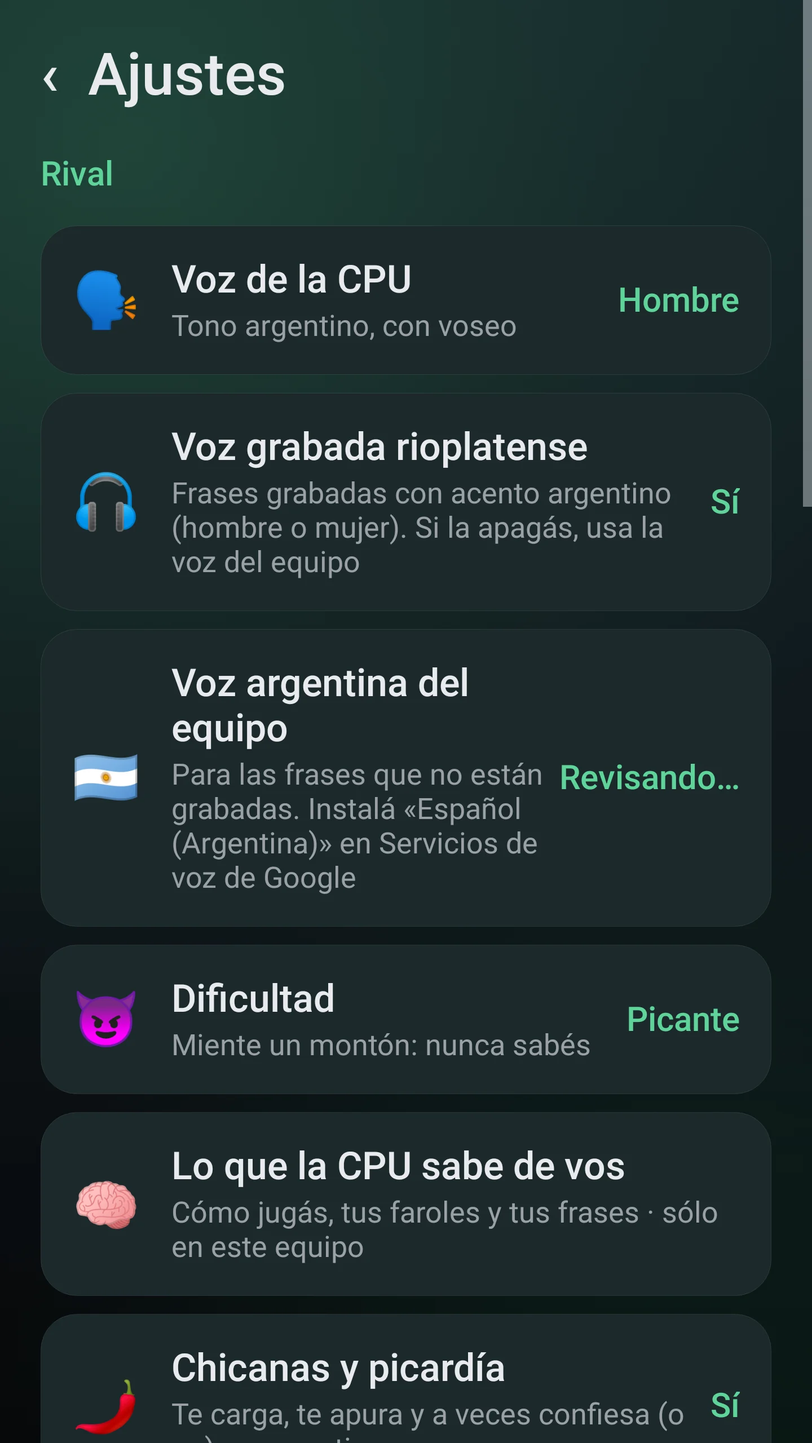
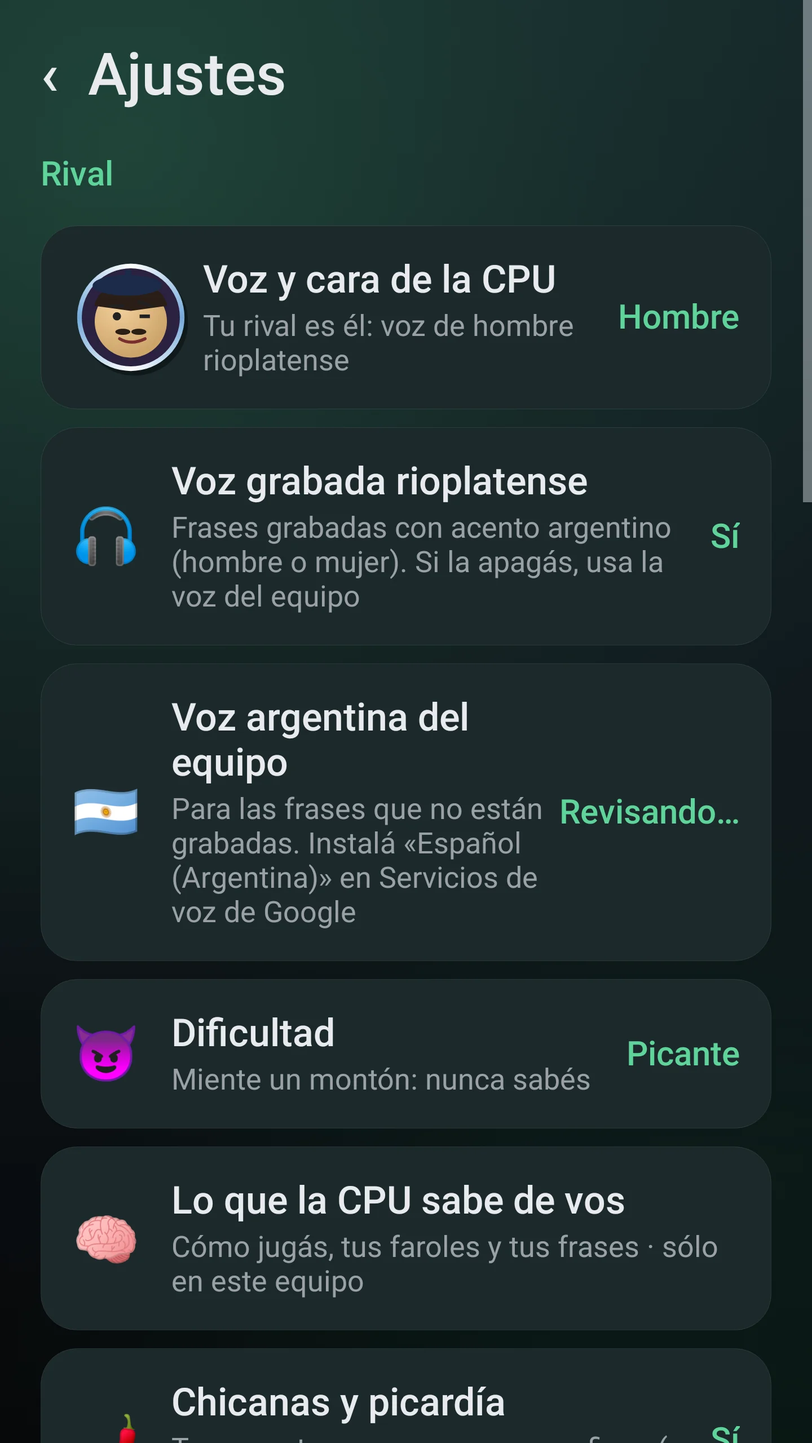
Truco Argento 1.3.1: rival mujer

diff --git a/apps/truco-argento.html b/apps/truco-argento.html
@@ -1,14 +1,14 @@
 <!doctype html><html lang="es-AR" data-tema="oscuro" data-raiz=".."><head><meta charset="utf-8"><meta name="viewport" content="width=device-width,initial-scale=1">
-<title>Truco Argento — SumoSoft</title><script type="application/ld+json">{"@context": "https://schema.org", "@type": "SoftwareApplication", "name": "Truco Argento", "description": "Un rival que te conoce: truco por voz contra una CPU que aprende cómo jugás, miente y te chicanea con eso.", "operatingSystem": "Android 9 o superior", "applicationCategory": "UtilitiesApplication", "softwareVersion": "1.3.0", "url": "https://nachosumo-droid.github.io/apps/apps/truco-argento.html", "image": "https://nachosumo-droid.github.io/apps/img/marca/og-image.png", "inLanguage": "es-AR", "publisher": {"@type": "Organization", "name": "SumoSoft", "url": "https://nachosumo-droid.github.io/apps/"}, "offers": {"@type": "Offer", "price": "3999", "priceCurrency": "ARS", "availability": "https://schema.org/InStock", "url": "https://nachosumo-droid.github.io/apps/apps/truco-argento.html"}}</script><meta name="description" content="Un rival que te conoce: truco por voz contra una CPU que aprende cómo jugás, miente y te chicanea con eso."><meta name="theme-color" content="#070b16"><meta name="color-scheme" content="dark light"><link rel="canonical" href="https://nachosumo-droid.github.io/apps/apps/truco-argento.html"><meta property="og:type" content="website"><meta property="og:site_name" content="SumoSoft"><meta property="og:locale" content="es_AR"><meta property="og:title" content="Truco Argento — SumoSoft"><meta property="og:description" content="Un rival que te conoce: truco por voz contra una CPU que aprende cómo jugás, miente y te chicanea con eso."><meta property="og:url" content="https://nachosumo-droid.github.io/apps/apps/truco-argento.html"><meta property="og:image" content="https://nachosumo-droid.github.io/apps/img/marca/og-image.png?v=3"><meta property="og:image:width" content="1200"><meta property="og:image:height" content="630"><meta name="twitter:card" content="summary_large_image"><meta name="twitter:image" content="https://nachosumo-droid.github.io/apps/img/marca/og-image.png?v=3"><link rel="icon" type="image/png" sizes="32x32" href="../img/marca/favicon-32.png?v=3"><link rel="apple-touch-icon" href="../img/marca/apple-touch-icon.png?v=3"><script>try{var t=localStorage.getItem("tema");if(!t)t=matchMedia("(prefers-color-scheme: light)").matches?"claro":"oscuro";document.documentElement.dataset.tema=t}catch(e){}</script>
+<title>Truco Argento — SumoSoft</title><script type="application/ld+json">{"@context": "https://schema.org", "@type": "SoftwareApplication", "name": "Truco Argento", "description": "Un rival que te conoce: truco por voz contra una CPU que aprende cómo jugás, miente y te chicanea con eso.", "operatingSystem": "Android 9 o superior", "applicationCategory": "UtilitiesApplication", "softwareVersion": "1.3.1", "url": "https://nachosumo-droid.github.io/apps/apps/truco-argento.html", "image": "https://nachosumo-droid.github.io/apps/img/marca/og-image.png", "inLanguage": "es-AR", "publisher": {"@type": "Organization", "name": "SumoSoft", "url": "https://nachosumo-droid.github.io/apps/"}, "offers": {"@type": "Offer", "price": "3999", "priceCurrency": "ARS", "availability": "https://schema.org/InStock", "url": "https://nachosumo-droid.github.io/apps/apps/truco-argento.html"}}</script><meta name="description" content="Un rival que te conoce: truco por voz contra una CPU que aprende cómo jugás, miente y te chicanea con eso."><meta name="theme-color" content="#070b16"><meta name="color-scheme" content="dark light"><link rel="canonical" href="https://nachosumo-droid.github.io/apps/apps/truco-argento.html"><meta property="og:type" content="website"><meta property="og:site_name" content="SumoSoft"><meta property="og:locale" content="es_AR"><meta property="og:title" content="Truco Argento — SumoSoft"><meta property="og:description" content="Un rival que te conoce: truco por voz contra una CPU que aprende cómo jugás, miente y te chicanea con eso."><meta property="og:url" content="https://nachosumo-droid.github.io/apps/apps/truco-argento.html"><meta property="og:image" content="https://nachosumo-droid.github.io/apps/img/marca/og-image.png?v=3"><meta property="og:image:width" content="1200"><meta property="og:image:height" content="630"><meta name="twitter:card" content="summary_large_image"><meta name="twitter:image" content="https://nachosumo-droid.github.io/apps/img/marca/og-image.png?v=3"><link rel="icon" type="image/png" sizes="32x32" href="../img/marca/favicon-32.png?v=3"><link rel="apple-touch-icon" href="../img/marca/apple-touch-icon.png?v=3"><script>try{var t=localStorage.getItem("tema");if(!t)t=matchMedia("(prefers-color-scheme: light)").matches?"claro":"oscuro";document.documentElement.dataset.tema=t}catch(e){}</script>
 <link rel="stylesheet" href="../assets/estilo.css?v=11"><link rel="icon" type="image/svg+xml" href="../img/marca/icono.svg?v=3"></head><body>
 <a class="saltar" href="#contenido">Saltar al contenido</a><header><div class="w"><a class="logo" href="../index.html" aria-label="SumoSoft, inicio"><img src="../img/marca/icono.svg?v=3" alt="" width="34" height="34"><span>Sumo<b>Soft</b></span></a><nav aria-label="Principal"><a href="../index.html#apps">Apps</a><a class="oc" href="../index.html#confianza">Por qué nosotros</a><a href="../faq.html">Preguntas</a><a class="oc" href="../contacto.html">Contacto</a><button class="tema" type="button" aria-label="Cambiar tema">☀</button></nav></div></header>
 <main id="contenido"><div class="w"><p class="migas"><a href="../index.html">Inicio</a> › <a href="../index.html#apps">Apps</a> › Truco Argento</p><div class="app-top"><div class="ico" style="--c:#5FD39A"><img src="../img/icon-truco-argento.webp" alt="" width="96" height="96"></div><div><span class="tag">Celular y TV</span><h1>Truco Argento</h1><p style="color:var(--txt2);margin:6px 0 0">Un rival que te conoce: truco por voz contra una CPU que aprende cómo jugás, miente y te chicanea con eso.</p></div></div>
-<p class="titular">Un rival que te conoce: aprende cómo jugás y te chicanea con eso.</p><p class="aviso">Privacidad: el perfil que arma la CPU («Lo que la CPU sabe de vos») queda sólo en tu equipo, no usa internet y se borra con un botón o al desinstalar; no se graba audio, sólo frases cortas de cantos ya reconocidas. Micrófono: la app pide el permiso de micrófono para entender tus cantos. El reconocimiento lo hace el servicio de voz de tu equipo (normalmente Google); según el equipo puede funcionar sin internet o necesitar conexión. La app no graba ni guarda audio. En TV box sin micrófono en el control se juega con los botones. Bluetooth pide el permiso «Dispositivos cercanos» en Android 12 o más. Dos jugadores no usa servidores: los equipos se hablan directo en tu red. No fue probada todavía en todos los equipos.</p><p class="aviso">Para celulares Android 9 o más nuevos y Android TV / TV box con Android 9 o más.</p><div class="descargas"><a class="btn pri" href="https://github.com/nachosumo-droid/apps/releases/download/truco-argento-v1.3.0-web/TrucoArgento-1.3.0-web.apk" download>⬇ 📱📺 Truco Argento — celular y TV</a></div><div class="acciones"><a class="btn" href="#" data-comprar="truco-argento">🛒 Comprar · <span data-precio="truco-argento"></span></a></div><p class="sinpub-app"><span class="sinpub"><svg viewBox="0 0 24 24" fill="none" stroke="currentColor" stroke-width="2.2" stroke-linecap="round" stroke-linejoin="round" aria-hidden="true"><circle cx="12" cy="12" r="9"/><path d="M5.6 5.6l12.8 12.8"/></svg>Sin publicidad. Nunca.</span><span>Pagás una vez y la app es tuya: sin banners, sin videos que te hacen esperar, sin interrupciones. <a href="../index.html#sin-publicidad">Por qué cobramos</a></span></p>
+<p class="titular">Un rival que te conoce: aprende cómo jugás y te chicanea con eso.</p><p class="aviso">Privacidad: el perfil que arma la CPU («Lo que la CPU sabe de vos») queda sólo en tu equipo, no usa internet y se borra con un botón o al desinstalar; no se graba audio, sólo frases cortas de cantos ya reconocidas. Micrófono: la app pide el permiso de micrófono para entender tus cantos. El reconocimiento lo hace el servicio de voz de tu equipo (normalmente Google); según el equipo puede funcionar sin internet o necesitar conexión. La app no graba ni guarda audio. En TV box sin micrófono en el control se juega con los botones. Bluetooth pide el permiso «Dispositivos cercanos» en Android 12 o más. Dos jugadores no usa servidores: los equipos se hablan directo en tu red. No fue probada todavía en todos los equipos.</p><p class="aviso">Para celulares Android 9 o más nuevos y Android TV / TV box con Android 9 o más.</p><div class="descargas"><a class="btn pri" href="https://github.com/nachosumo-droid/apps/releases/download/truco-argento-v1.3.1-web/TrucoArgento-1.3.1-web.apk" download>⬇ 📱📺 Truco Argento — celular y TV</a></div><div class="acciones"><a class="btn" href="#" data-comprar="truco-argento">🛒 Comprar · <span data-precio="truco-argento"></span></a></div><p class="sinpub-app"><span class="sinpub"><svg viewBox="0 0 24 24" fill="none" stroke="currentColor" stroke-width="2.2" stroke-linecap="round" stroke-linejoin="round" aria-hidden="true"><circle cx="12" cy="12" r="9"/><path d="M5.6 5.6l12.8 12.8"/></svg>Sin publicidad. Nunca.</span><span>Pagás una vez y la app es tuya: sin banners, sin videos que te hacen esperar, sin interrupciones. <a href="../index.html#sin-publicidad">Por qué cobramos</a></span></p>
 <p id="msg-compra" class="aviso" hidden></p>
 <div class="shots" tabindex="0" aria-label="Capturas"><a href="../img/truco-argento-0-hd.webp" class="lb" data-lb="truco-argento"><img src="../img/truco-argento-0.webp" alt="Un rival que te conoce (tocá para ampliar)" width="1000" height="562" loading="lazy"><span class="cap">Un rival que te conoce</span></a><a href="../img/truco-argento-1-hd.webp" class="lb" data-lb="truco-argento"><img src="../img/truco-argento-1.webp" alt="Intro bien argentina: dos hinchas, bandera, tres estrellas, asado, mate y papelitos (tocá para ampliar)" width="1000" height="1778" loading="lazy"><span class="cap">Intro bien argentina: dos hinchas, bandera, tres estrellas, asado, mate y papelitos</span></a><a href="../img/truco-argento-2-hd.webp" class="lb" data-lb="truco-argento"><img src="../img/truco-argento-2.webp" alt="Lo que la CPU sabe de vos (y podés borrar) (tocá para ampliar)" width="1000" height="1778" loading="lazy"><span class="cap">Lo que la CPU sabe de vos (y podés borrar)</span></a><a href="../img/truco-argento-3-hd.webp" class="lb" data-lb="truco-argento"><img src="../img/truco-argento-3.webp" alt="La mesa: tus cartas y el rival que te carga (tocá para ampliar)" width="1000" height="1778" loading="lazy"><span class="cap">La mesa: tus cartas y el rival que te carga</span></a><a href="../img/truco-argento-4-hd.webp" class="lb" data-lb="truco-argento"><img src="../img/truco-argento-4.webp" alt="Respondé con la voz o con los botones (tocá para ampliar)" width="1000" height="1778" loading="lazy"><span class="cap">Respondé con la voz o con los botones</span></a><a href="../img/truco-argento-5-hd.webp" class="lb" data-lb="truco-argento"><img src="../img/truco-argento-5.webp" alt="Contra la CPU o mano a mano (tocá para ampliar)" width="1000" height="1778" loading="lazy"><span class="cap">Contra la CPU o mano a mano</span></a><a href="../img/truco-argento-6-hd.webp" class="lb" data-lb="truco-argento"><img src="../img/truco-argento-6.webp" alt="Anotador de fósforos (sorpresa) (tocá para ampliar)" width="1000" height="1778" loading="lazy"><span class="cap">Anotador de fósforos (sorpresa)</span></a><a href="../img/truco-argento-7-hd.webp" class="lb" data-lb="truco-argento"><img src="../img/truco-argento-7.webp" alt="Voz, dificultad, flor y temas (tocá para ampliar)" width="1000" height="1778" loading="lazy"><span class="cap">Voz, dificultad, flor y temas</span></a><a href="../img/truco-argento-8-hd.webp" class="lb" data-lb="truco-argento"><img src="../img/truco-argento-8.webp" alt="En la TV, con el control (tocá para ampliar)" width="1000" height="562" loading="lazy"><span class="cap">En la TV, con el control</span></a><a href="../img/truco-argento-9-hd.webp" class="lb" data-lb="truco-argento"><img src="../img/truco-argento-9.webp" alt="Se juega con la voz (tocá para ampliar)" width="1000" height="1778" loading="lazy"><span class="cap">Se juega con la voz</span></a></div>
-<div class="cols"><div><section class="distinta"><h2>Lo que la hace distinta</h2><ul><li>🧠 Te conoce: recuerda tus faroles, tus achiques y tus frases, y te las echa en cara.</li><li>🔒 Lo que aprende queda en tu equipo: sin internet, y lo borrás cuando quieras.</li><li>🗣 Se juega cantando: la app te escucha.</li><li>😈 La CPU miente al azar: nunca sabés si tiene.</li><li>🇦🇷 Voz con tonada y muletillas argentinas.</li><li>📶 Mano a mano por Wi-Fi o Bluetooth, sin internet.</li><li>📺 El mismo APK en el celular y en la TV.</li><li>🔥 Anotador de fósforos de regalo.</li><li>🚫 Sin publicidad. Nunca.</li></ul></section><h2>Qué es</h2><p>Un rival que te conoce: la CPU aprende cómo jugás (cuándo mentís en el envido o en el truco, si te achicás o siempre subís, si cantás falta cuando venís perdiendo y hasta tus frases de siempre) y te chicanea con eso: «vos siempre cantás falta cuando venís perdiendo», «otra vez con tu frase de siempre». Lo que aprende queda sólo en tu equipo, sin internet, y lo podés ver y borrar en «Lo que la CPU sabe de vos». Es el truco argentino clásico, pero se juega con la voz: cantás «truco», «quiero retruco», «envido», «real envido», «falta envido» o «me voy al mazo» en voz alta, y con el dedo sólo elegís qué carta tirar. La CPU te contesta hablando con tonada argentina (voz de hombre o de mujer, a elección), te carga, te apura y miente: a veces canta truco con basura y a veces se hace el muerto con el ancho, así nunca sabés. Cuatro dificultades, partidas a 15 o a 30 con malas y buenas, flor opcional, y mano a mano entre dos equipos por Wi-Fi o Bluetooth, sin internet. Y de regalo, un anotador de fósforos para cuando juegan con cartas de verdad.</p><h2>Qué hace</h2><ul><li>Un rival que te conoce: partida a partida, la CPU arma un perfil tuyo (cuánto mentís en el envido y en el truco, cuántas veces no querés o te vas al mazo y cuántas subís, si cantás falta cuando venís perdiendo, y las frases cortas que más usás al cantar). Lo usa para decidir en todos los niveles (más cuanto más difícil) y para chicanearte con eso. En Ajustes → «Lo que la CPU sabe de vos» ves todo y lo borrás con un botón.</li><li>Jugás al truco contra la CPU: cantás en voz alta (truco, retruco, vale cuatro, envido, real envido, falta envido, flor, quiero, no quiero, me voy al mazo) y tocás la carta que querés tirar.</li><li>La CPU habla con voz (hombre o mujer, en Ajustes), usa muletillas y chicanas, y miente al azar según la dificultad: Tranqui, De boliche, Picante o Maestro de esquina.</li><li>Reglas completas: pardas, «el envido está primero», falta envido (en las malas gana el partido), flor y contraflor opcionales, al mazo.</li><li>Dos jugadores: un equipo crea la partida y el otro se une, por Wi-Fi (misma red) o por Bluetooth (equipos vinculados). No usa internet.</li><li>Anotador de fósforos: para partidas con cartas de verdad; se anota tocando o diciendo «dos para nosotros».</li></ul><h2>Requisitos</h2><ul><li>Celular Android 9 o más nuevo, o Android TV / TV box con Android 9 o más</li><li>Micrófono y reconocimiento de voz de Google (si no hay, se juega con los botones)</li><li>Para dos jugadores: mismo Wi-Fi, o Bluetooth con los equipos vinculados</li></ul><h2>Funciones</h2><ul class="f"><li>🧠 Un rival que te conoce: aprende cómo jugás y te chicanea con eso (todo queda en tu equipo)</li><li>🇦🇷 Nueva mesa de bar: paño verde, madera, filete porteño, cartas animadas y un rival con cara que te habla en globitos</li><li>🗣 Ahora habla con acento argentino de verdad: frases grabadas rioplatenses, de hombre o de mujer</li><li>😏 El rival pone caras: se agranda cuando gana, se enoja cuando pierde, se pone nervioso con tu truco y se burla si te agarra mintiendo</li><li>🇦🇷 Intro bien argentina: dos hinchas de dibujito, bandera, tres estrellas, asado, mate y papelitos</li><li>Se juega con la voz: cantás y la app entiende (con botones de respaldo)</li><li>Rival con voz argentina, de hombre o de mujer</li><li>La CPU miente: faroles al azar, nunca sabés si tiene</li><li>Reglas completas: truco, retruco, vale cuatro, envido, real envido, falta envido, flor opcional, mazo</li><li>A 15 o a 30 con malas y buenas, tanteador con fósforos</li><li>Dos jugadores por Wi-Fi o Bluetooth, sin internet</li><li>En la TV con el control remoto</li><li>Anotador de fósforos por voz para partidas de verdad</li></ul>
-<h2>Cómo se instala</h2><ol class="pasos-i"><li>Descargá el APK e instalalo (si Android pregunta, permití instalar desde el navegador). Es el mismo APK para el celular y la TV.</li><li>Abrila, mirá la guía y permití el micrófono (sólo se usa mientras jugás; no se graba nada).</li><li>En Ajustes elegí la voz del rival (hombre o mujer) y la dificultad. Para comprar: «Activar» → «Comprar con Mercado Pago».</li></ol><h2>Novedades</h2><ul><li><b>1.3.0</b> — Acento argentino de verdad: 189 frases grabadas con voz rioplatense (hombre y mujer), y las frases que cambian se arman con pedazos grabados. Nueva opción «Voz argentina del equipo» que detecta e instala la voz es-AR. El rival pone caras animadas según la jugada (canchero, enojado, triste, pícaro, nervioso, burlón, festejo y derrota). En la intro, dos hinchas de dibujito que saltan, besan la copa y festejan.</li><li><b>1.2.0</b> — Intro nueva bien argentina (bandera flameando, tres estrellas, asado, mate y papelitos; se saltea y se vuelve a ver desde Ajustes). Mesa nueva: paño verde con textura y borde de madera, filete porteño, cartas más lindas con sombras, animaciones al repartir y tirar, rival con cara y globitos, tanteador de pizarrón y botones de canto que brillan.</li><li><b>1.1.0</b> — Un rival que te conoce: la CPU aprende cómo jugás (faroles, achiques, subidas, falta cuando venís perdiendo y tus frases) y te chicanea con eso. Nueva pantalla «Lo que la CPU sabe de vos» con botón para borrar. Todo queda en tu equipo.</li><li><b>1.0.0</b> — Primera versión.</li></ul></div>
-<aside class="box"><dl><dt>Versión</dt><dd>1.3.0</dd><dt>Requisitos</dt><dd>Android 9 o superior · Android TV / TV box y celular Android</dd><dt>Prueba</dt><dd>7 días, todas las funciones</dd><dt>Licencia</dt><dd>De por vida, 1 equipo (podés pasarla a otro con tu código)</dd><dt>Publicidad</dt><dd>Ninguna. Nunca.</dd><dt>Pago</dt><dd>Mercado Pago</dd><dt>Precio</dt><dd data-precio="truco-argento"></dd></dl>
+<div class="cols"><div><section class="distinta"><h2>Lo que la hace distinta</h2><ul><li>🧠 Te conoce: recuerda tus faroles, tus achiques y tus frases, y te las echa en cara.</li><li>🔒 Lo que aprende queda en tu equipo: sin internet, y lo borrás cuando quieras.</li><li>🗣 Se juega cantando: la app te escucha.</li><li>😈 La CPU miente al azar: nunca sabés si tiene.</li><li>🇦🇷 Voz con tonada y muletillas argentinas.</li><li>📶 Mano a mano por Wi-Fi o Bluetooth, sin internet.</li><li>📺 El mismo APK en el celular y en la TV.</li><li>🔥 Anotador de fósforos de regalo.</li><li>🚫 Sin publicidad. Nunca.</li></ul></section><h2>Qué es</h2><p>Un rival que te conoce: la CPU aprende cómo jugás (cuándo mentís en el envido o en el truco, si te achicás o siempre subís, si cantás falta cuando venís perdiendo y hasta tus frases de siempre) y te chicanea con eso: «vos siempre cantás falta cuando venís perdiendo», «otra vez con tu frase de siempre». Lo que aprende queda sólo en tu equipo, sin internet, y lo podés ver y borrar en «Lo que la CPU sabe de vos». Es el truco argentino clásico, pero se juega con la voz: cantás «truco», «quiero retruco», «envido», «real envido», «falta envido» o «me voy al mazo» en voz alta, y con el dedo sólo elegís qué carta tirar. La CPU te contesta hablando con tonada argentina (voz de hombre o de mujer, a elección), te carga, te apura y miente: a veces canta truco con basura y a veces se hace el muerto con el ancho, así nunca sabés. Cuatro dificultades, partidas a 15 o a 30 con malas y buenas, flor opcional, y mano a mano entre dos equipos por Wi-Fi o Bluetooth, sin internet. Y de regalo, un anotador de fósforos para cuando juegan con cartas de verdad.</p><h2>Qué hace</h2><ul><li>Un rival que te conoce: partida a partida, la CPU arma un perfil tuyo (cuánto mentís en el envido y en el truco, cuántas veces no querés o te vas al mazo y cuántas subís, si cantás falta cuando venís perdiendo, y las frases cortas que más usás al cantar). Lo usa para decidir en todos los niveles (más cuanto más difícil) y para chicanearte con eso. En Ajustes → «Lo que la CPU sabe de vos» ves todo y lo borrás con un botón.</li><li>Jugás al truco contra la CPU: cantás en voz alta (truco, retruco, vale cuatro, envido, real envido, falta envido, flor, quiero, no quiero, me voy al mazo) y tocás la carta que querés tirar.</li><li>La CPU habla con voz (hombre o mujer, en Ajustes), usa muletillas y chicanas, y miente al azar según la dificultad: Tranqui, De boliche, Picante o Maestro de esquina.</li><li>Reglas completas: pardas, «el envido está primero», falta envido (en las malas gana el partido), flor y contraflor opcionales, al mazo.</li><li>Dos jugadores: un equipo crea la partida y el otro se une, por Wi-Fi (misma red) o por Bluetooth (equipos vinculados). No usa internet.</li><li>Anotador de fósforos: para partidas con cartas de verdad; se anota tocando o diciendo «dos para nosotros».</li></ul><h2>Requisitos</h2><ul><li>Celular Android 9 o más nuevo, o Android TV / TV box con Android 9 o más</li><li>Micrófono y reconocimiento de voz de Google (si no hay, se juega con los botones)</li><li>Para dos jugadores: mismo Wi-Fi, o Bluetooth con los equipos vinculados</li></ul><h2>Funciones</h2><ul class="f"><li>🧠 Un rival que te conoce: aprende cómo jugás y te chicanea con eso (todo queda en tu equipo)</li><li>🇦🇷 Nueva mesa de bar: paño verde, madera, filete porteño, cartas animadas y un rival con cara que te habla en globitos</li><li>🗣 Ahora habla con acento argentino de verdad: frases grabadas rioplatenses, de hombre o de mujer</li><li>👩 Elegí tu rival: él, de boina y bigote, o ella, de rodete y pañuelo celeste (va con la voz que elijas)</li><li>😏 El rival pone caras: se agranda cuando gana, se enoja cuando pierde, se pone nervioso con tu truco y se burla si te agarra mintiendo</li><li>🇦🇷 Intro bien argentina: dos hinchas de dibujito, bandera, tres estrellas, asado, mate y papelitos</li><li>Se juega con la voz: cantás y la app entiende (con botones de respaldo)</li><li>Rival con voz argentina, de hombre o de mujer</li><li>La CPU miente: faroles al azar, nunca sabés si tiene</li><li>Reglas completas: truco, retruco, vale cuatro, envido, real envido, falta envido, flor opcional, mazo</li><li>A 15 o a 30 con malas y buenas, tanteador con fósforos</li><li>Dos jugadores por Wi-Fi o Bluetooth, sin internet</li><li>En la TV con el control remoto</li><li>Anotador de fósforos por voz para partidas de verdad</li></ul>
+<h2>Cómo se instala</h2><ol class="pasos-i"><li>Descargá el APK e instalalo (si Android pregunta, permití instalar desde el navegador). Es el mismo APK para el celular y la TV.</li><li>Abrila, mirá la guía y permití el micrófono (sólo se usa mientras jugás; no se graba nada).</li><li>En Ajustes elegí la voz del rival (hombre o mujer) y la dificultad. Para comprar: «Activar» → «Comprar con Mercado Pago».</li></ol><h2>Novedades</h2><ul><li><b>1.3.1</b> — Con voz de mujer, la rival es ella: un personaje nuevo con rodete, florcita, aros y pañuelo celeste, con los mismos 12 gestos animados. En Ajustes se ve la cara de tu rival y la guía muestra a los dos.</li><li><b>1.3.0</b> — Acento argentino de verdad: 189 frases grabadas con voz rioplatense (hombre y mujer), y las frases que cambian se arman con pedazos grabados. Nueva opción «Voz argentina del equipo» que detecta e instala la voz es-AR. El rival pone caras animadas según la jugada (canchero, enojado, triste, pícaro, nervioso, burlón, festejo y derrota). En la intro, dos hinchas de dibujito que saltan, besan la copa y festejan.</li><li><b>1.2.0</b> — Intro nueva bien argentina (bandera flameando, tres estrellas, asado, mate y papelitos; se saltea y se vuelve a ver desde Ajustes). Mesa nueva: paño verde con textura y borde de madera, filete porteño, cartas más lindas con sombras, animaciones al repartir y tirar, rival con cara y globitos, tanteador de pizarrón y botones de canto que brillan.</li><li><b>1.1.0</b> — Un rival que te conoce: la CPU aprende cómo jugás (faroles, achiques, subidas, falta cuando venís perdiendo y tus frases) y te chicanea con eso. Nueva pantalla «Lo que la CPU sabe de vos» con botón para borrar. Todo queda en tu equipo.</li><li><b>1.0.0</b> — Primera versión.</li></ul></div>
+<aside class="box"><dl><dt>Versión</dt><dd>1.3.1</dd><dt>Requisitos</dt><dd>Android 9 o superior · Android TV / TV box y celular Android</dd><dt>Prueba</dt><dd>7 días, todas las funciones</dd><dt>Licencia</dt><dd>De por vida, 1 equipo (podés pasarla a otro con tu código)</dd><dt>Publicidad</dt><dd>Ninguna. Nunca.</dd><dt>Pago</dt><dd>Mercado Pago</dd><dt>Precio</dt><dd data-precio="truco-argento"></dd></dl>
 <p style="font-size:14px;color:var(--txt2)">¿Dudas? Mirá las <a href="../faq.html">preguntas frecuentes</a>.</p></aside></div></div></main>
 <footer><div class="w"><div class="pie"><div><a class="logo" href="../index.html"><img src="../img/marca/icono.svg?v=3" alt="" width="34" height="34"><span>Sumo<b>Soft</b></span></a><p style="margin:0;max-width:340px">Apps para Android TV y celular, pensadas para el control remoto y hechas en Argentina.</p></div><div><h4>Sitio</h4><a href="../index.html#apps">Apps</a><a href="../faq.html">Preguntas frecuentes</a><a href="../contacto.html">Contacto</a></div><div><h4>Legal</h4><a href="../privacidad.html">Privacidad</a><a href="../terminos.html">Términos</a><a href="../reembolsos.html">Reembolsos y arrepentimiento</a></div></div><div class="legal"><span>© 2026 SumoSoft</span><span>Pagos procesados por Mercado Pago</span></div><p class="credito" style="margin:14px 0 0;font-size:12px;color:var(--txt2);opacity:.8">SumoSoft by Jiav (Buenos Aires, Argentina)</p></div></footer>
 <script src="../assets/sitio.js?v=11" defer></script><script src="../assets/marca.js?v=11" defer></script></body></html>

diff --git a/README.md b/README.md
@@ -68,8 +68,8 @@ Cada app trae 7 días de prueba gratis y licencia de por vida.
 
 ## Juegos
 
-- **🃏 Truco Argento** v1.3.0 — Un rival que te conoce: truco por voz contra una CPU que aprende cómo jugás, miente y te chicanea con eso.  
-  [⬇ APK](https://github.com/nachosumo-droid/apps/releases/download/truco-argento-v1.3.0-web/TrucoArgento-1.3.0-web.apk) (v1.3.0) · [página](https://nachosumo-droid.github.io/apps/apps/truco-argento.html)
+- **🃏 Truco Argento** v1.3.1 — Un rival que te conoce: truco por voz contra una CPU que aprende cómo jugás, miente y te chicanea con eso.  
+  [⬇ APK](https://github.com/nachosumo-droid/apps/releases/download/truco-argento-v1.3.1-web/TrucoArgento-1.3.1-web.apk) (v1.3.1) · [página](https://nachosumo-droid.github.io/apps/apps/truco-argento.html)
 - **🐹 Gordi** v4.1.4 — Tu mascota virtual: cuidala, jugá y aprendé con ella.  
   [⬇ APK](https://github.com/nachosumo-droid/apps/releases/download/gordi-v4.1.4-web/Gordi-4.1.4-web.apk) (v4.1.4) · [página](https://nachosumo-droid.github.io/apps/apps/gordi.html)
 - **🍷 Gordi Adultos** v1.0.4 — La edición para adultos de Gordi: cocina, gym, trabajo y finanzas personales.  
